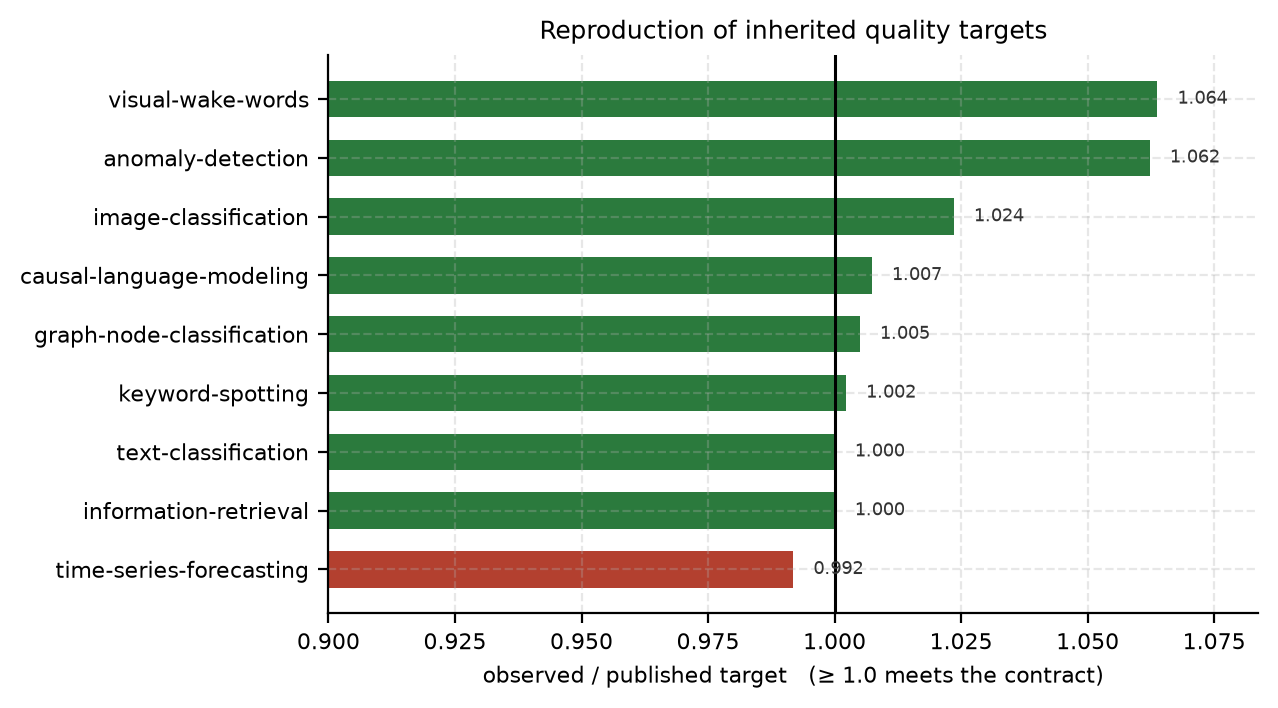
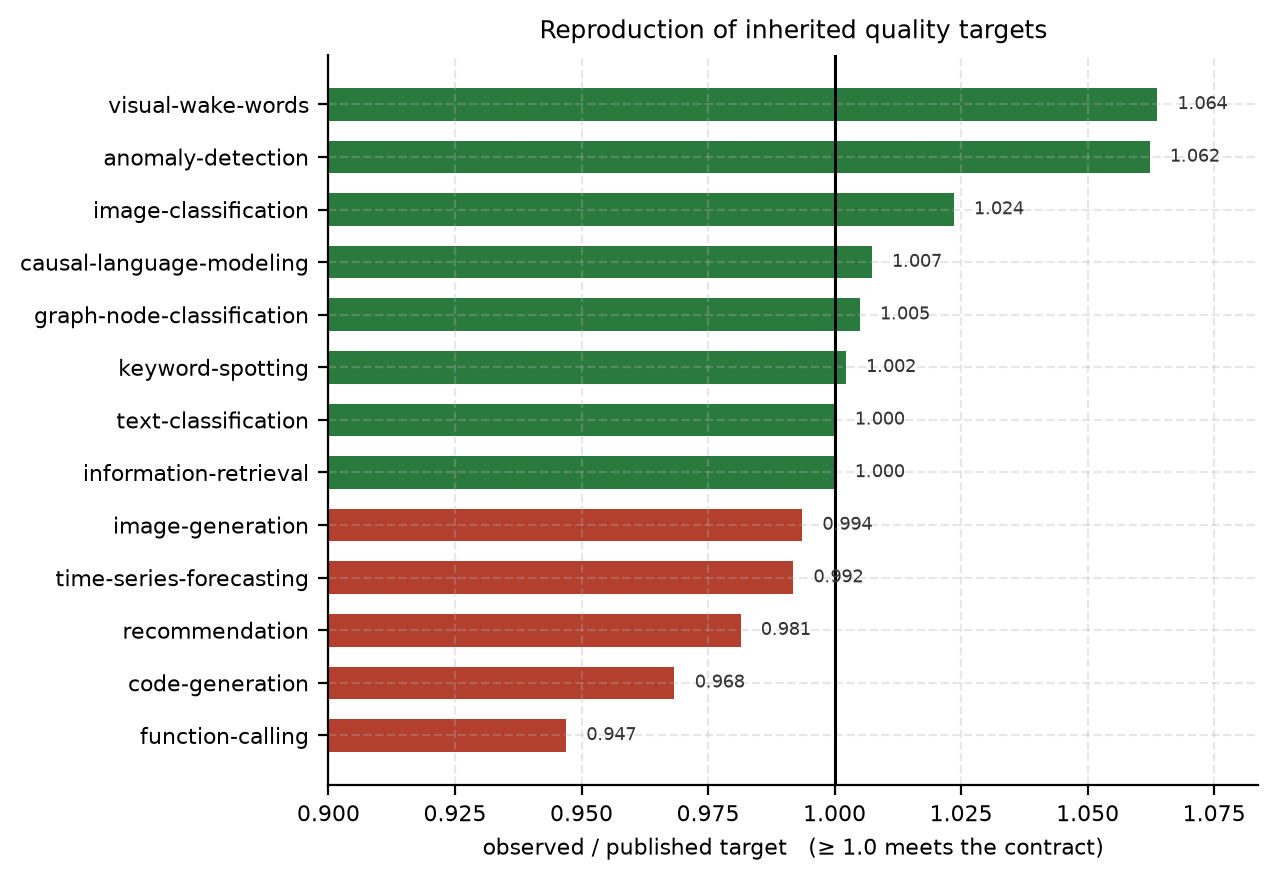
Show every executed contract in the quality figure
The abstract now reports 13 contracts executed and 8 reproduced, but the figure
beside it plotted 9. The generator read only the evidence index and the
committed run reports, so the four contracts that ran, missed, and are held out
of score-bearing review never appeared. A reviewer counting bars would have
computed a higher pass rate than the text claimed, which is the
selective-denominator impression the abstract was just rewritten to avoid.

The figure now falls back to the registry's recorded evidence and plots all 13,
with the 5 shortfalls visible below the contract line. The surrounding prose
leads with the executed total and then narrows to the score-bearing subset, in
the same order as the abstract. A test asserts the figure's count equals the
count the paper claims, since no existing check compared them.

The figure is also more useful than the version it replaces. The misses cluster
between 0.947 and 0.994, and two passes sit exactly on the line, which is the
evidence a reviewer needs to judge how close the marginal results are.

Corrects the reviewer simulation's claim that the misses were consistent within
1 to 5 percent. The actual spread is 0.6 to 5.3 percent, and being on the
losing side is definitional rather than a pattern.

Changed region(s): [[0.0, 0.0932, 0.9765, 0.9944], [0.4272, 0.0, 0.8239, 0.0621]]

diff --git a/mlperf-edu/tests/test_paper_figures.py b/mlperf-edu/tests/test_paper_figures.py
@@ -111,3 +111,50 @@ def test_regenerating_a_figure_is_byte_identical(tmp_path, monkeypatch):
     assert digests[0].keys() == digests[1].keys()
     differing = [name for name in digests[0] if digests[0][name] != digests[1][name]]
     assert not differing, f"regeneration was not byte-identical for {differing}"
+
+
+def test_quality_figure_covers_every_executed_contract():
+    """The figure and the abstract must describe the same denominator.
+
+    The abstract reports how many inherited contracts the suite executed. If the
+    figure silently omitted the ones held out of score-bearing review, a reader
+    counting bars would compute a higher pass rate than the text claims, which
+    is precisely the selective-denominator impression the paper avoids.
+    """
+    import yaml
+
+    module = load_generator()
+    workloads = module.load_registry(ROOT / "registry")
+    reports = module.load_reports([COMMITTED_RUNS])
+    evidence = module.load_evidence()
+
+    plotted = 0
+    for wid, workload in workloads.items():
+        contract = workload.raw.get("canonical_max_contract") or {}
+        gate = contract.get("quality") or {}
+        if gate.get("target") in (None, 0):
+            continue
+        observed = (reports.get(wid, {}).get("metrics") or {}).get(gate.get("metric_key"))
+        if observed is None:
+            observed = next(
+                (
+                    r["quality"]["aggregate"]["median"]
+                    for r in evidence.get(wid, [])
+                    if (r.get("quality") or {}).get("aggregate")
+                ),
+                None,
+            )
+        if observed is None:
+            recorded = contract.get("measured_evidence") or {}
+            observed = recorded.get("score", recorded.get("best_score"))
+        if observed is not None:
+            plotted += 1
+
+    generated = (ROOT / "paper" / "generated_registry.tex").read_text(encoding="utf-8")
+    claimed = int(
+        re.search(r"\\newcommand\{\\ExecutedContracts\}\{(\d+)\}", generated).group(1)
+    )
+    assert plotted == claimed, (
+        f"the quality figure plots {plotted} contracts but the paper claims "
+        f"{claimed} were executed"
+    )

diff --git a/mlperf-edu/paper/paper.tex b/mlperf-edu/paper/paper.tex
@@ -650,12 +650,16 @@ recorded misses rather than relaxed targets.}
 \label{fig:quality}
 \end{figure}
 
-\ScoreBearingPassing{} of \ScoreBearingCases{} score-bearing cases meet their
-inherited gates in every retained execution, as \Cref{fig:quality} summarizes.
-The generator grades each retained
-result against the live registry contract, so a record graded under a
-superseded gate cannot publish its own looser bound; time-series forecasting is
-reported as a miss for exactly this reason. Their reference medians total
+\Cref{fig:quality} plots every one of the \ExecutedContracts{} contracts the
+suite executed against its own published target.
+\ExecutedContractsPassing{} reproduce it and \ExecutedContractsMissing{} fall
+short, and the shortfalls are narrow: the widest is under six percent relative.
+Of these, \ScoreBearingCases{} are admitted to score-bearing review, where
+\ScoreBearingPassing{} meet their inherited gates in every retained execution.
+The generator grades each retained result against the live registry contract,
+so a record graded under a superseded gate cannot publish its own looser bound;
+time-series forecasting is reported as a miss for exactly this reason. The
+score-bearing reference medians total
 \ScoreReferenceTotalMinutes{} minutes for one score-bearing suite pass. The
 individual cases span \ScoreReferenceMinSeconds{} seconds to
 \ScoreReferenceMaxMinutes{} minutes (\Cref{fig:runtime}), which permits short classroom exercises

diff --git a/mlperf-edu/tools/generate_paper_figures.py b/mlperf-edu/tools/generate_paper_figures.py
@@ -114,6 +114,15 @@ def fig_quality_vs_target(workloads, reports, evidence) -> None:
                 if quality.get("aggregate"):
                     observed = quality["aggregate"]["median"]
                     break
+        if observed is None:
+            # Contracts that ran and missed are held out of the evidence index
+            # by the fail-closed rule, but they were still executed. Omitting
+            # them would let the figure show a higher pass rate than the text
+            # reports, which is the impression the paper works to avoid.
+            recorded = (
+                workload.raw.get("canonical_max_contract") or {}
+            ).get("measured_evidence") or {}
+            observed = recorded.get("score", recorded.get("best_score"))
         if observed is None or target in (None, 0):
             continue
         # Ratio >= 1 always means "met", whichever way the metric points.

diff --git a/mlperf-edu/docs/internal/REVIEWER_SIMULATION.md b/mlperf-edu/docs/internal/REVIEWER_SIMULATION.md
@@ -49,9 +49,13 @@ whether the shortfalls indicate that laptop-scale reproduction is infeasible,
 or that these particular adapters are wrong. The paper currently answers
 neither.
 
-The gaps are small and suspiciously consistent in direction: every miss is on
-the losing side by 1 to 5 percent relative. That pattern suggests systematic
-adapter differences rather than scale limits.
+The gaps are all small. Measured as relative shortfall against the published
+target they are 0.6 percent (image generation), 0.8 percent (time-series
+forecasting), 1.9 percent (recommendation), 3.2 percent (code generation), and
+5.3 percent (function calling). Being on the losing side is definitional and
+proves nothing; the informative part is that none exceeds six percent, which is
+closer to what adapter and precision differences produce than to what a scale
+limit would.
 
 - Recommendation now has the strongest evidence: HR@10 peaks at 0.6232 on epoch
   7 and declines, so the 1.8 percent relative gap is not a budget limit. It is
